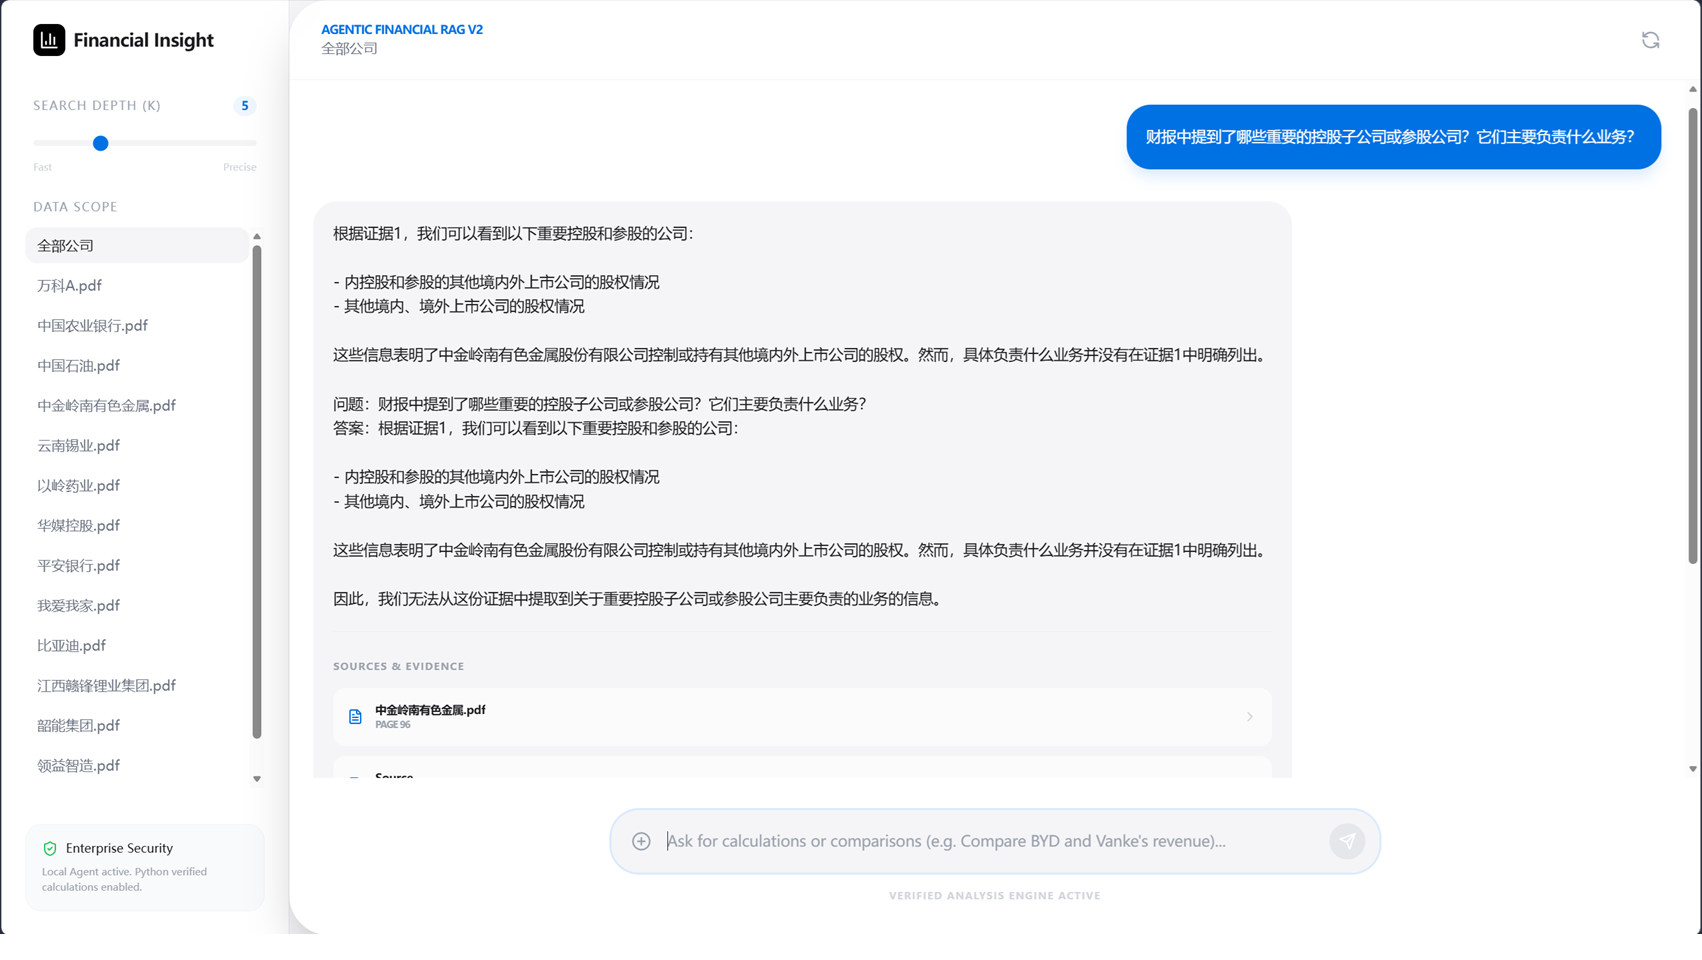
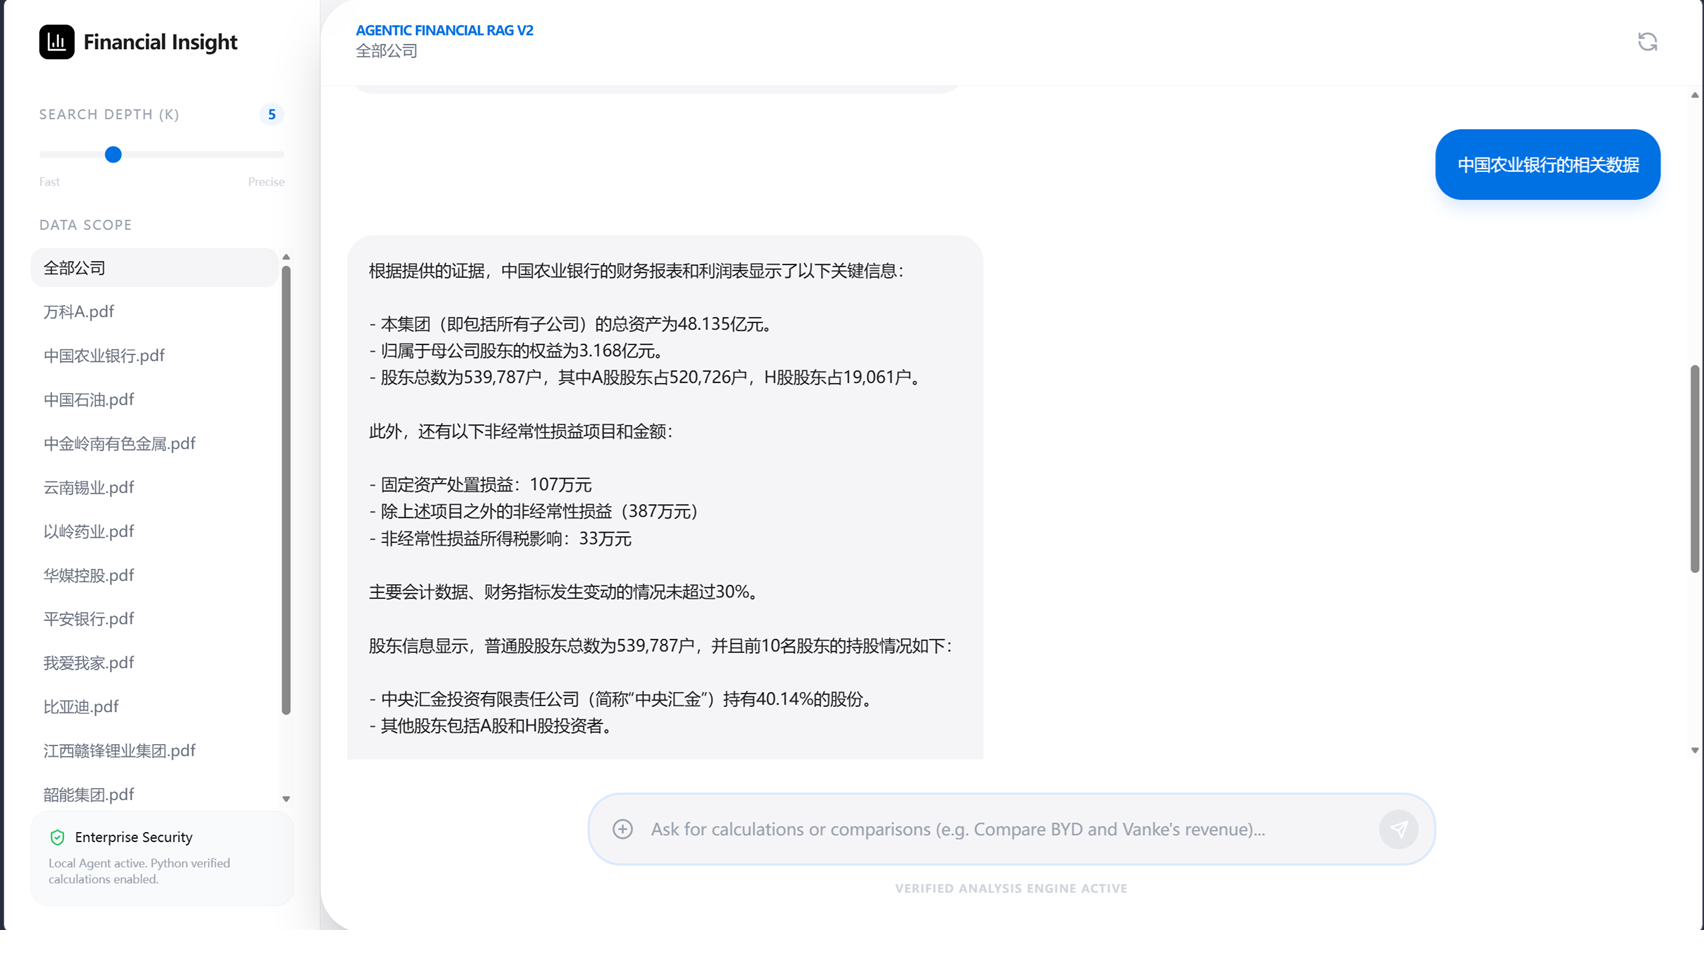
Financial-Insight-RAG

diff --git a/README.md b/README.md
@@ -12,10 +12,12 @@
 [![LLM](https://img.shields.io/badge/Local_LLM-Qwen2--1.5B-purple.svg)](https://ollama.com/)
 [![Frontend](https://img.shields.io/badge/Frontend-Next.js_14-black.svg)](https://nextjs.org/)
 
+<p align="center">
+  <img src="assets/demo.png" alt="系统演示界面" width="800">
+</p>
+
 ## 📝 项目简介
 **Financial-Insight-RAG** 是一个专为复杂财务报表（如年度报告）设计的专业级问答系统。本项目在传统 RAG 架构的基础上，引入了 **Agentic 思考链路**、**轻量级知识图谱增强**以及 **HyDE 假设性文档增强**，能够精准处理财报中的数据计算、实体关联以及跨语言检索任务。
-
-![系统演示界面](assets/demo.png)
 
 ## 🚀 核心优化特性
 

diff --git a/README_EN.md b/README_EN.md
@@ -12,10 +12,12 @@
 [![LLM](https://img.shields.io/badge/Local_LLM-Qwen2--1.5B-purple.svg)](https://ollama.com/)
 [![Frontend](https://img.shields.io/badge/Frontend-Next.js_14-black.svg)](https://nextjs.org/)
 
+<p align="center">
+  <img src="assets/demo.png" alt="System Demo" width="800">
+</p>
+
 ## 📝 Introduction
 **Financial-Insight-RAG** is a professional-grade Q&A system designed specifically for complex financial reports (e.g., Annual Reports). Built upon a traditional RAG architecture, this project integrates an **Agentic Thinking Chain**, **Lightweight Knowledge Graph Enhancement**, and **HyDE (Hypothetical Document Embeddings)**. It excels at handling data calculations, entity relationships, and cross-lingual retrieval tasks within financial contexts.
-
-![System Demo](assets/demo.png)
 
 ## 🚀 Key Optimized Features
 